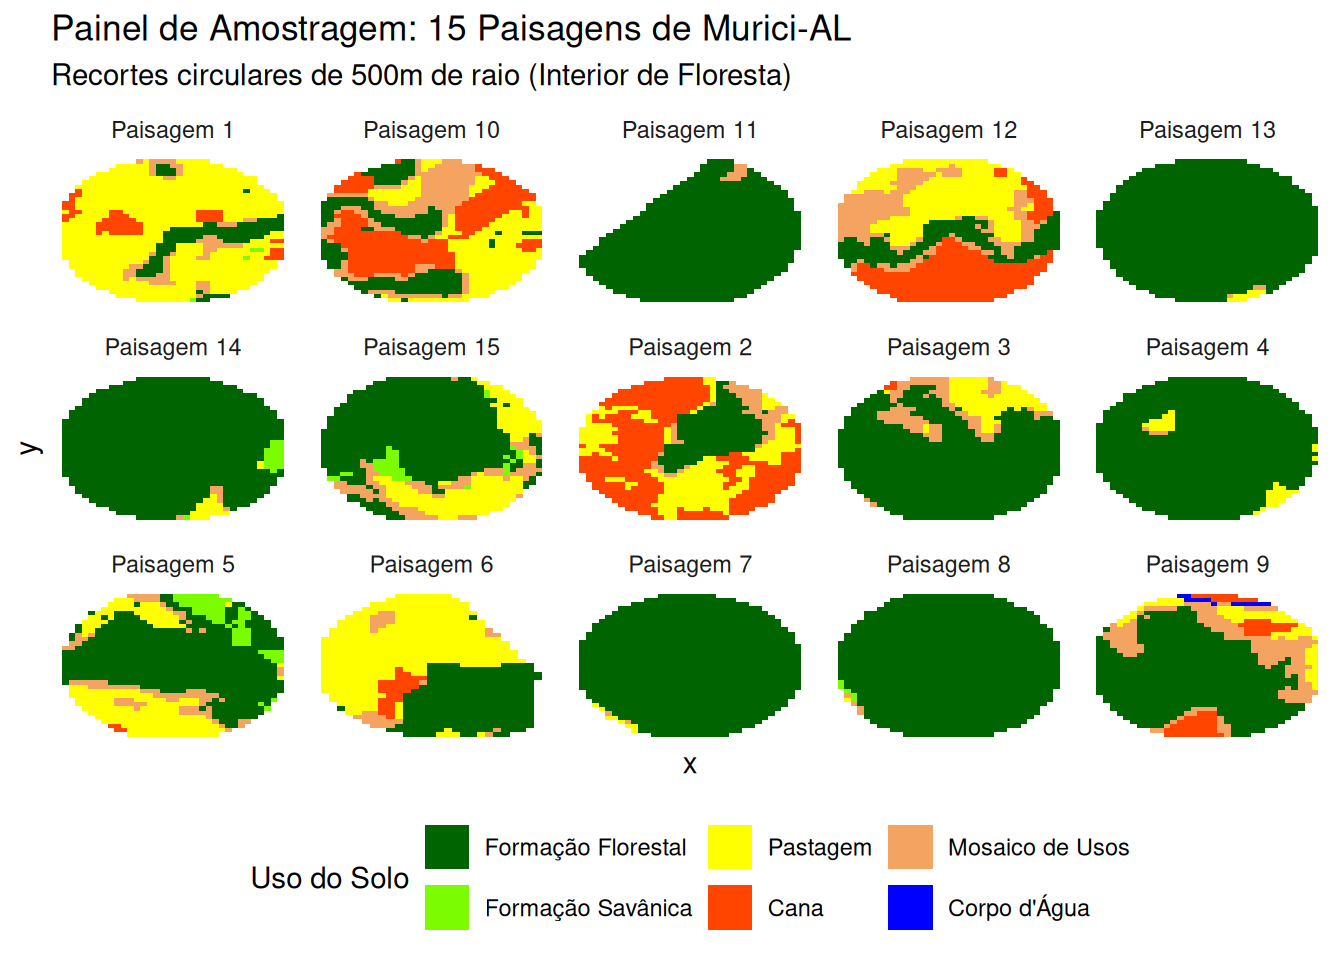
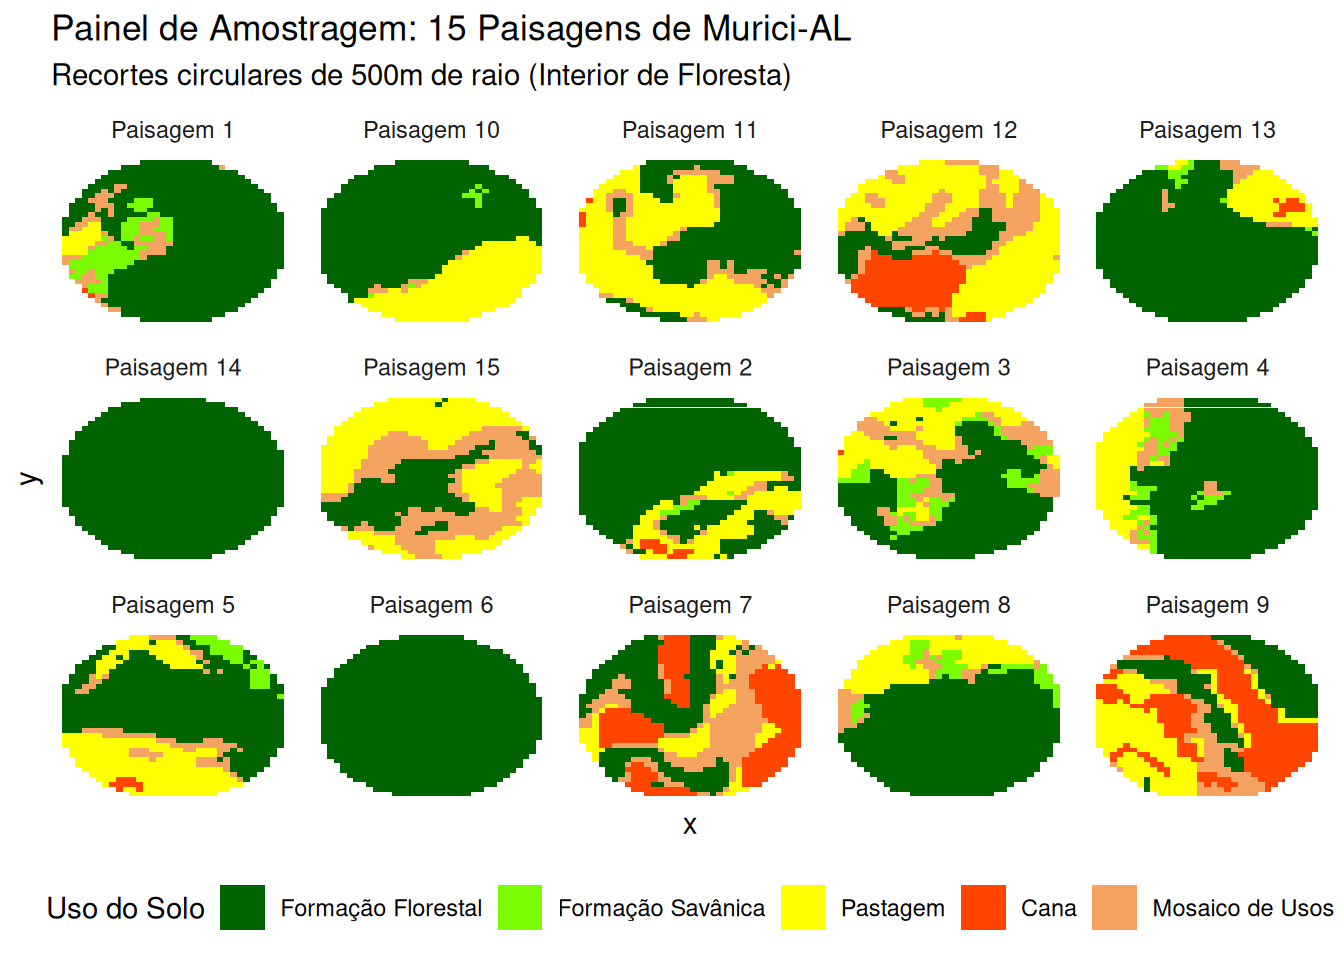
crop

diff --git a/docs/exercises/ex4-analises/exer_4.html b/docs/exercises/ex4-analises/exer_4.html
@@ -333,7 +333,9 @@ The following object is masked from 'package:stats':
 </div>
 <div class="code-copy-outer-scaffold"><div class="sourceCode cell-code" id="cb8"><pre class="sourceCode r code-with-copy"><code class="sourceCode r"><span id="cb8-1"><a href="#cb8-1" aria-hidden="true" tabindex="-1"></a><span class="fu">library</span>(landscapemetrics)</span>
 <span id="cb8-2"><a href="#cb8-2" aria-hidden="true" tabindex="-1"></a></span>
-<span id="cb8-3"><a href="#cb8-3" aria-hidden="true" tabindex="-1"></a>r_murici <span class="ot">&lt;-</span> <span class="fu">rast</span>(<span class="st">"2024_murici.tif"</span>)</span></code></pre></div><button title="Copiar para a área de transferência" class="code-copy-button"><i class="bi"></i></button></div>
+<span id="cb8-3"><a href="#cb8-3" aria-hidden="true" tabindex="-1"></a><span class="fu">setwd</span>(<span class="st">"~/ecologia_paisagem/exercises/ex4-analises"</span>) <span class="co"># mude para o seu próprio diretório</span></span>
+<span id="cb8-4"><a href="#cb8-4" aria-hidden="true" tabindex="-1"></a></span>
+<span id="cb8-5"><a href="#cb8-5" aria-hidden="true" tabindex="-1"></a>r_murici <span class="ot">&lt;-</span> <span class="fu">rast</span>(<span class="st">"2024_murici.tif"</span>)</span></code></pre></div><button title="Copiar para a área de transferência" class="code-copy-button"><i class="bi"></i></button></div>
 </div>
 <hr>
 </section>
@@ -429,7 +431,7 @@ The following object is masked from 'package:stats':
 <span id="cb11-3"><a href="#cb11-3" aria-hidden="true" tabindex="-1"></a>limite_seguro <span class="ot">&lt;-</span> <span class="fu">buffer</span>(municipio_limite, <span class="at">width =</span> <span class="sc">-</span><span class="dv">2000</span>)</span>
 <span id="cb11-4"><a href="#cb11-4" aria-hidden="true" tabindex="-1"></a></span>
 <span id="cb11-5"><a href="#cb11-5" aria-hidden="true" tabindex="-1"></a>floresta <span class="ot">&lt;-</span> vetor_total[vetor_total<span class="sc">$</span>Categoria <span class="sc">==</span> <span class="st">"Formação Florestal"</span>, ]</span>
-<span id="cb11-6"><a href="#cb11-6" aria-hidden="true" tabindex="-1"></a>area_sorteio <span class="ot">&lt;-</span> <span class="fu">intersect</span>(floresta, limite_seguro)</span>
+<span id="cb11-6"><a href="#cb11-6" aria-hidden="true" tabindex="-1"></a>area_sorteio <span class="ot">&lt;-</span> <span class="fu">crop</span>(floresta, limite_seguro)</span>
 <span id="cb11-7"><a href="#cb11-7" aria-hidden="true" tabindex="-1"></a></span>
 <span id="cb11-8"><a href="#cb11-8" aria-hidden="true" tabindex="-1"></a><span class="cf">if</span> (<span class="fu">is.list</span>(area_sorteio)) {</span>
 <span id="cb11-9"><a href="#cb11-9" aria-hidden="true" tabindex="-1"></a>  area_sorteio <span class="ot">&lt;-</span> <span class="fu">do.call</span>(rbind, area_sorteio)</span>
@@ -635,21 +637,21 @@ OVERWRITE</code></pre>
 <span id="cb21-40"><a href="#cb21-40" aria-hidden="true" tabindex="-1"></a><span class="fu">print</span>(metricas_paisagem)</span></code></pre></div><button title="Copiar para a área de transferência" class="code-copy-button"><i class="bi"></i></button></div>
 <div class="cell-output cell-output-stdout">
 <pre><code>   id_buffer diversidade_shannon perc_floresta densidade_borda_m_ha
-1          1          0.86221768      11.37088            36.791188
-2          2          1.20198579      18.71036            30.556494
-3          3          0.69045453      78.16826            41.522989
-4          4          0.19563877      95.56025            16.344171
-5          5          1.09262730      58.99894            73.381145
-6          6          0.98150274      35.61047            26.381625
-7          7          0.06395442      98.94180             4.979577
-8          8          0.06888814      98.93730             4.286352
-9          9          1.08470940      62.47335            43.000611
-10        10          1.37117196      21.29925            61.568570
-11        11          0.07189974      98.64130             5.936928
-12        12          1.36081318      17.59062            51.959071
-13        13          0.08012715      98.62288             4.272730
-14        14          0.26590112      94.58023            13.930644
-15        15          0.98953391      63.68477            59.420829</code></pre>
+1          1           0.7507504      78.22410             44.41351
+2          2           0.7551841      75.62028             53.66340
+3          3           1.2318169      49.41922             53.94980
+4          4           0.8906418      71.73679             33.35833
+5          5           1.0747283      57.00326             63.86672
+6          6           0.0000000     100.00000              0.00000
+7          7           1.3336246      31.62939             74.45502
+8          8           0.8789672      70.95745             25.38790
+9          9           1.3141271      23.73247             48.22454
+10        10           0.7153538      69.32907             24.34106
+11        11           1.0003162      44.07684             58.11278
+12        12           1.2808703      13.84452             44.74460
+13        13           0.6093134      83.75527             24.81909
+14        14           0.0000000     100.00000              0.00000
+15        15           1.0722640      23.58591             53.09069</code></pre>
 </div>
 </div>
 <p>A tabela <code>metricas_paisagem</code> contém os valores para cada uma das 15 paisagens. Você pode salvá-la como CSV:</p>
